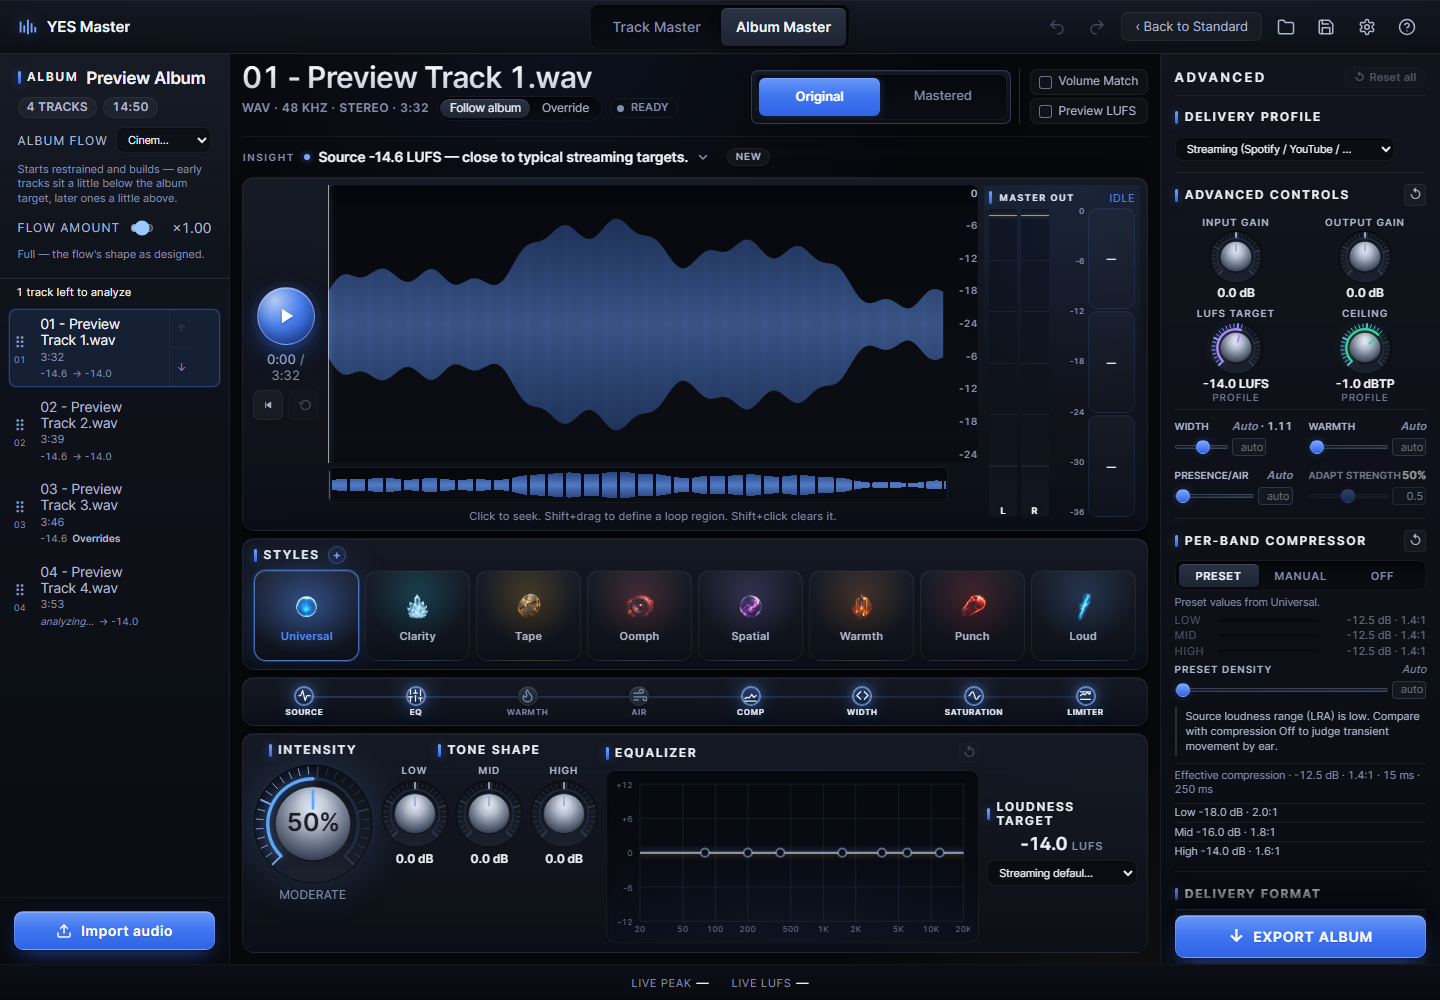
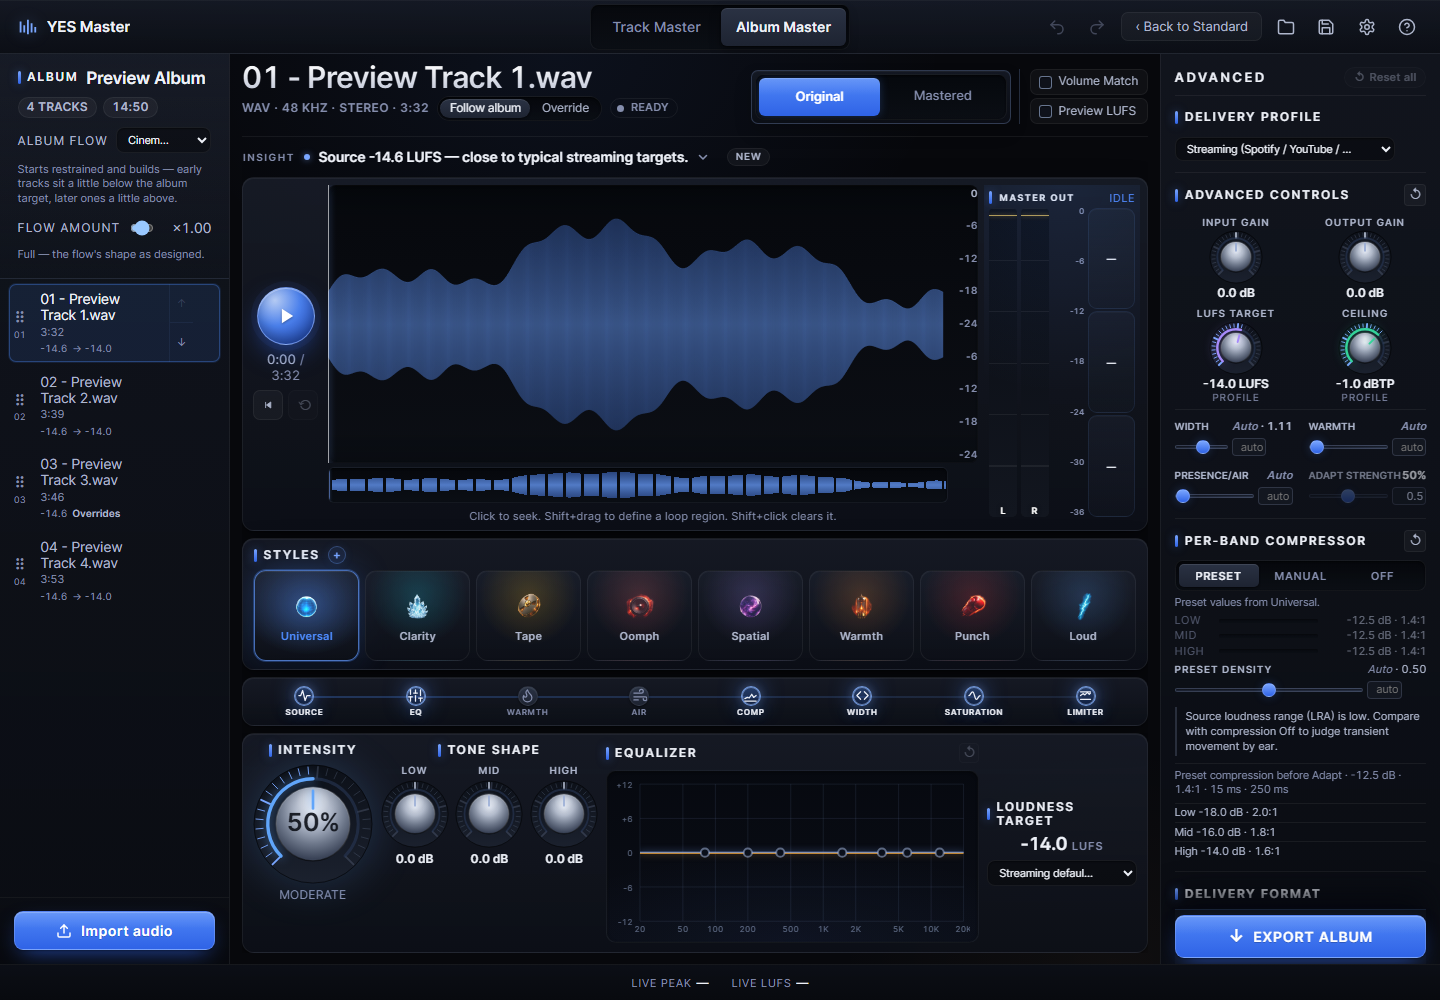
fix: show requested Density Auto and label pre-Adapt compression

diff --git a/src/App.compressor-mode.test.tsx b/src/App.compressor-mode.test.tsx
@@ -328,7 +328,7 @@ describe("AdvancedPanel compressor mode", () => {
       "Preset values from Universal.",
     );
     expect(preset.container.textContent).toContain(
-      "Effective compression · -12.5 dB · 1.4:1 · 15 ms · 250 ms",
+      "Preset compression before Adapt · -12.5 dB · 1.4:1 · 15 ms · 250 ms",
     );
     expect(preset.container.textContent).not.toContain("LOWMIDHIGH");
     expect(compressionInputs(preset.container).every((input) => input.disabled)).toBe(
@@ -401,7 +401,7 @@ describe("AdvancedPanel compressor mode", () => {
       "Preset values from Universal.",
     );
     expect(universal.container.textContent).toContain(
-      "Effective compression · -12.5 dB · 1.4:1 · 15 ms · 250 ms",
+      "Preset compression before Adapt · -12.5 dB · 1.4:1 · 15 ms · 250 ms",
     );
     expect(universal.container.textContent).not.toContain("-22.0 dB");
     expect(universal.container.textContent).not.toContain("2.6:1");
@@ -414,11 +414,46 @@ describe("AdvancedPanel compressor mode", () => {
     });
     expect(tape.container.textContent).toContain("Preset values from Tape.");
     expect(tape.container.textContent).toContain(
-      "Effective compression · -16.0 dB · 1.6:1 · 30 ms · 400 ms",
+      "Preset compression before Adapt · -16.0 dB · 1.6:1 · 30 ms · 400 ms",
     );
     await act(async () => {
       tape.root.unmount();
     });
+  });
+
+  it("parks Density Auto at the requested preset default independently of Adapt", async () => {
+    for (const kind of ["universal", "tape", "custom"] as const) {
+      for (const strength of [0, 0.5, 1]) {
+        const settings = makeSettings(
+          { adaptive_strength: strength },
+          kind === "custom" ? { kind, id: "density-auto-test" } : { kind },
+        );
+        const onAdvanced = vi.fn();
+        const { container, root } = await renderAdvancedPanel({ settings, onAdvanced });
+        const slider = container.querySelector<HTMLInputElement>('input[type="range"][aria-label="Preset density"]')!;
+        expect(slider.value).toBe(kind === "custom" ? "0" : "0.5");
+        expect(settings.advanced.compression_density).toBeNull();
+        expect(onAdvanced).not.toHaveBeenCalled();
+        expect(container.querySelector(".compressor-density-field")?.textContent).toContain(
+          kind === "custom" ? "0.00" : "0.50",
+        );
+        await act(async () => { root.unmount(); });
+      }
+    }
+  });
+
+  it("preserves explicit Density, and resetting requests null without materializing Auto", async () => {
+    for (const density of [0, 0.8]) {
+      const settings = makeSettings({ compression_density: density });
+      const onAdvanced = vi.fn();
+      const { container, root } = await renderAdvancedPanel({ settings, onAdvanced });
+      const slider = container.querySelector<HTMLInputElement>('input[type="range"][aria-label="Preset density"]')!;
+      expect(slider.value).toBe(String(density));
+      await act(async () => { slider.dispatchEvent(new MouseEvent("dblclick", { bubbles: true })); });
+      expect(onAdvanced).toHaveBeenCalledWith({ ...settings.advanced, compression_density: null });
+      expect(settings.advanced.compression_density).toBe(density);
+      await act(async () => { root.unmount(); });
+    }
   });
 
   it("labels density-zero preset compression as inactive instead of showing identity values", async () => {

diff --git a/src/components/AdvancedPanel.tsx b/src/components/AdvancedPanel.tsx
@@ -724,6 +724,8 @@ function PerBandCompressorCard({
           <NumberField
             label="Preset density"
             value={a.compression_density}
+            sliderAutoValue={settings.preset.kind === "custom" ? 0 : 0.5}
+            autoReadout={settings.preset.kind === "custom" ? "0.00" : "0.50"}
             step={0.05}
             min={0}
             max={1}
@@ -950,7 +952,7 @@ function presetCompressionSummary(
   if (density <= 0.001) {
     return `Preset compression inactive · Density ${density.toFixed(2)}`;
   }
-  return `Effective compression · ${readout.thresholdLabel} · ${readout.ratioLabel} · ${readout.attackLabel} · ${readout.releaseLabel}`;
+  return `Preset compression before Adapt · ${readout.thresholdLabel} · ${readout.ratioLabel} · ${readout.attackLabel} · ${readout.releaseLabel}`;
 }
 
 function materializeManualCompressor(

diff --git a/docs/reviews/2026-09-15-mastering-quality-implementation-evidence.md b/docs/reviews/2026-09-15-mastering-quality-implementation-evidence.md
@@ -1,0 +1,89 @@
+# Mastering quality implementation evidence
+
+Started September 15, 2026 on local `codex/mastering-quality`, from `7534f612`.
+The starting checkout was clean and the revised plan matched that commit.
+No push, main integration, publication, spending or private-audio commit is authorized.
+
+## Checkpoint ledger
+
+| Checkpoint | Status | Evidence and limits |
+| --- | --- | --- |
+| A | Implemented; integration verification running | Same Rubato FFT filter, explicit partial input/draining, checked integer frame counts. 1,690 rate/length conditions pass; finite-tail and fixed-phase stale-frame checks pass. Actual export and fixture lanes pending. |
+| B1 | Implemented; regressions running | Shared optional-LUFS decision and raw measurement availability; no-target/short-audio protection. Current detector only, not B2/B3 qualification. |
+| D1 | Complete | Named Auto 0.50 / Custom 0.00, saved null unchanged; summary identifies pre-Adapt values. Build, all 38 app headless checks, landing checks and 892 frontend tests passed. Fresh Advanced capture inspected: thumb/readout/summary visible without overlap. |
+| C0 | Experiment started | Protocol below; results pending. |
+| B2–B4, C1–C3, D2, E | Pending | Existing revised dependencies and adoption/calibration gates remain. |
+
+### First verification details
+
+- D1: `test-output/mastering-quality-implementation-20260915/d1-headless-verified/`
+  and `frontend.log`. Landing capture manifest refreshed by the existing command.
+  Existing Manual materialization and preset coefficients are unchanged.
+- Full frontend testing exposed an older beta-duration assertion. The recorded
+  September 14 owner decision is eight weeks from launch; `afaf0a41` corrects
+  that assertion only. Public beta copy and release state are untouched.
+- Fresh application On/Off exports under `c0-coat-v1/` match respectively
[2 lines of base64/hex data omitted]
+- A/B1 first full test command encountered Windows executable locking because
+  Cargo attempted to relink the running C0 example. The library/integration
+  suite is rerunning separately; future probes will run a copied executable.
+  This is a harness/build conflict, not an audio result.
+- Rust 1.98 formatting reordered two guardrails imports. That mechanical change
+  triggered the existing demo stamp; the real WASM rebuild passed. No DSP
+  coefficient or gate changed. It remains separate from browser/native proof.
+
+## C0 development protocol, version 1
+
+This is an offline feasibility experiment, not adoption of a new sonic policy.
+Retain the historical controls unchanged. Use the restored eight-source corpus
+and source hashes from the existing research manifest. Use fresh output under
+`test-output/mastering-quality-implementation-20260915/`; never regenerate into
+the frozen research directories. Full-song candidate outputs are retained locally.
+
+Before comparisons, recheck the corrected FFT interpolator on odd/even DC,
+alternating and random controls, and compare selected float-forced SOXR outputs.
+The FFT reference retains its documented bandwidth/finite-edge limitations.
+Candidate success requires finite samples, exact frame/channel identity and
+the requested ceiling on both checked references (numerical tolerance 0.002 dB).
+The historical 0.2 LU comparison tolerance and product 0.25 LU advisory stay distinct.
+No composite fidelity score or shipping character limit is chosen in C0.
+
+Separate preparation from selection:
+
+- Time current deep analysis and decoded-source availability independently.
+- Derive passage indices from existing ordered deep windows, accounting for
+  stride. Record starts/tails, loud/quiet activity, attacks and high-frequency
+  passages. This map is descriptive and cannot certify channel peaks.
+- Compare repeated full render/measure with reuse of matching upstream PCM and
+  measurements, then moving initial settings preparation before the first edit.
+  Use the same candidate policy in those preparation comparisons.
+- Keep at most two upstream PCM results. Count bytes, hits/misses, rendered
+  samples and measured samples; do not describe an old scalar cache as new work.
+- For target-only reuse, assert identical complete chain coefficients and
+  delivery rate before using retained raw audio. Whole-file final measurements
+  remain required. Source identity, analysis revision and algorithm version
+  belong in a production key; this single-source experiment is not that cache.
+
+Compare these development candidates: corrected current processing; a one-render
+rule that subtracts measured source LUFS, preset gain and the saturator's
+small-signal gain from the target; the historical attenuate-only first candidate;
+and a bounded search around that source-relative rule. Search offsets are
+−9, −6, −3, 0, +3, +6, +9, +12 dB, with at most two ±1.5 dB refinements.
+These are an initial development search extent, not input-trim caps or shipping
+constants. Normalize source and apply operating drive separately in temporary
+chain coefficients, leaving saved manual gain/Density/Adapt unchanged.
+Select feasible lowest-drive candidates; preserve explicit target misses.
+
+Report target error, per-channel peaks, crest, LRA, source-anchored section
+contrast, tone and stereo separately. Do not infer preferred sound from crest.
+Retain all evaluated points and measured stage costs. Passage screening must
+be compared with continuous full-file output and adequate preceding context;
+do not select a passage shortcut on cost alone.
+
+Experience measurements must separate initial preparation, first checked master,
+edit settling, repeated settings, playback/meter response and total session work.
+An offline block-throughput probe cannot establish native callback deadlines.
+Native availability/results will be explicitly recorded, including requested
+versus granted device blocks, cancellation, source/device switches and A/B.
+No unseen holdout is opened in C0; C2 rules/limits must be frozen first.

diff --git a/docs/OPEN_THREADS_AND_DECISIONS.md b/docs/OPEN_THREADS_AND_DECISIONS.md
@@ -1,5 +1,16 @@
 # YES Master — Open Threads & Owner Decisions
 
+> **2026-09-15 — Mastering-quality implementation started locally.**
+> Dan authorized implementation, validation, internal docs and small local commits
+> in the existing checkout. Branch `codex/mastering-quality` starts at local
+> `7534f612`; no push/main merge/release/deployment/spend or private-audio commit.
+> [Checkpoint evidence](reviews/2026-09-15-mastering-quality-implementation-evidence.md)
+> records SRC and no-target/short-input protection, Density Auto and early C0
+> preparation experiments. D1's build, 38 headless checks and 892 frontend tests
+> pass; refreshed captures were inspected. Fresh application exports reproduce
+> the historical owner On/Off WAV hashes exactly. A/B1 integration verification
+> and C0 comparisons are running; B2/B3 and sonic-policy adoption remain open.
+
 > **2026-09-15 — Revised mastering plan: useful upfront preparation is an owner priority.**
 > Dan accepts longer initial analysis/preparation for demonstrated audio quality,
 > fidelity and subsequent interaction benefits. The [revised plan](plans/2026-09-15-mastering-quality-implementation-plan.md)

diff --git a/docs/plans/2026-09-15-mastering-quality-implementation-plan.md b/docs/plans/2026-09-15-mastering-quality-implementation-plan.md
@@ -2,8 +2,11 @@
 
 Date: September 15, 2026. Reviewed checkout: `5426041c` on `main`.
 Revision 2, following plan review and Dan's upfront-analysis direction.
-Status: **revised implementation plan; production work and sonic calibration
-have not started.** This file replaces the earlier draft as the current plan.
+Status: **implementation in progress**, authorized September 15 on local
+`codex/mastering-quality` from `7534f612`. See the
+[checkpoint ledger](../reviews/2026-09-15-mastering-quality-implementation-evidence.md).
+Sonic-policy adoption and calibration remain gated. This file replaces the
+earlier draft as the current plan.
 
 ## In plain language
 
